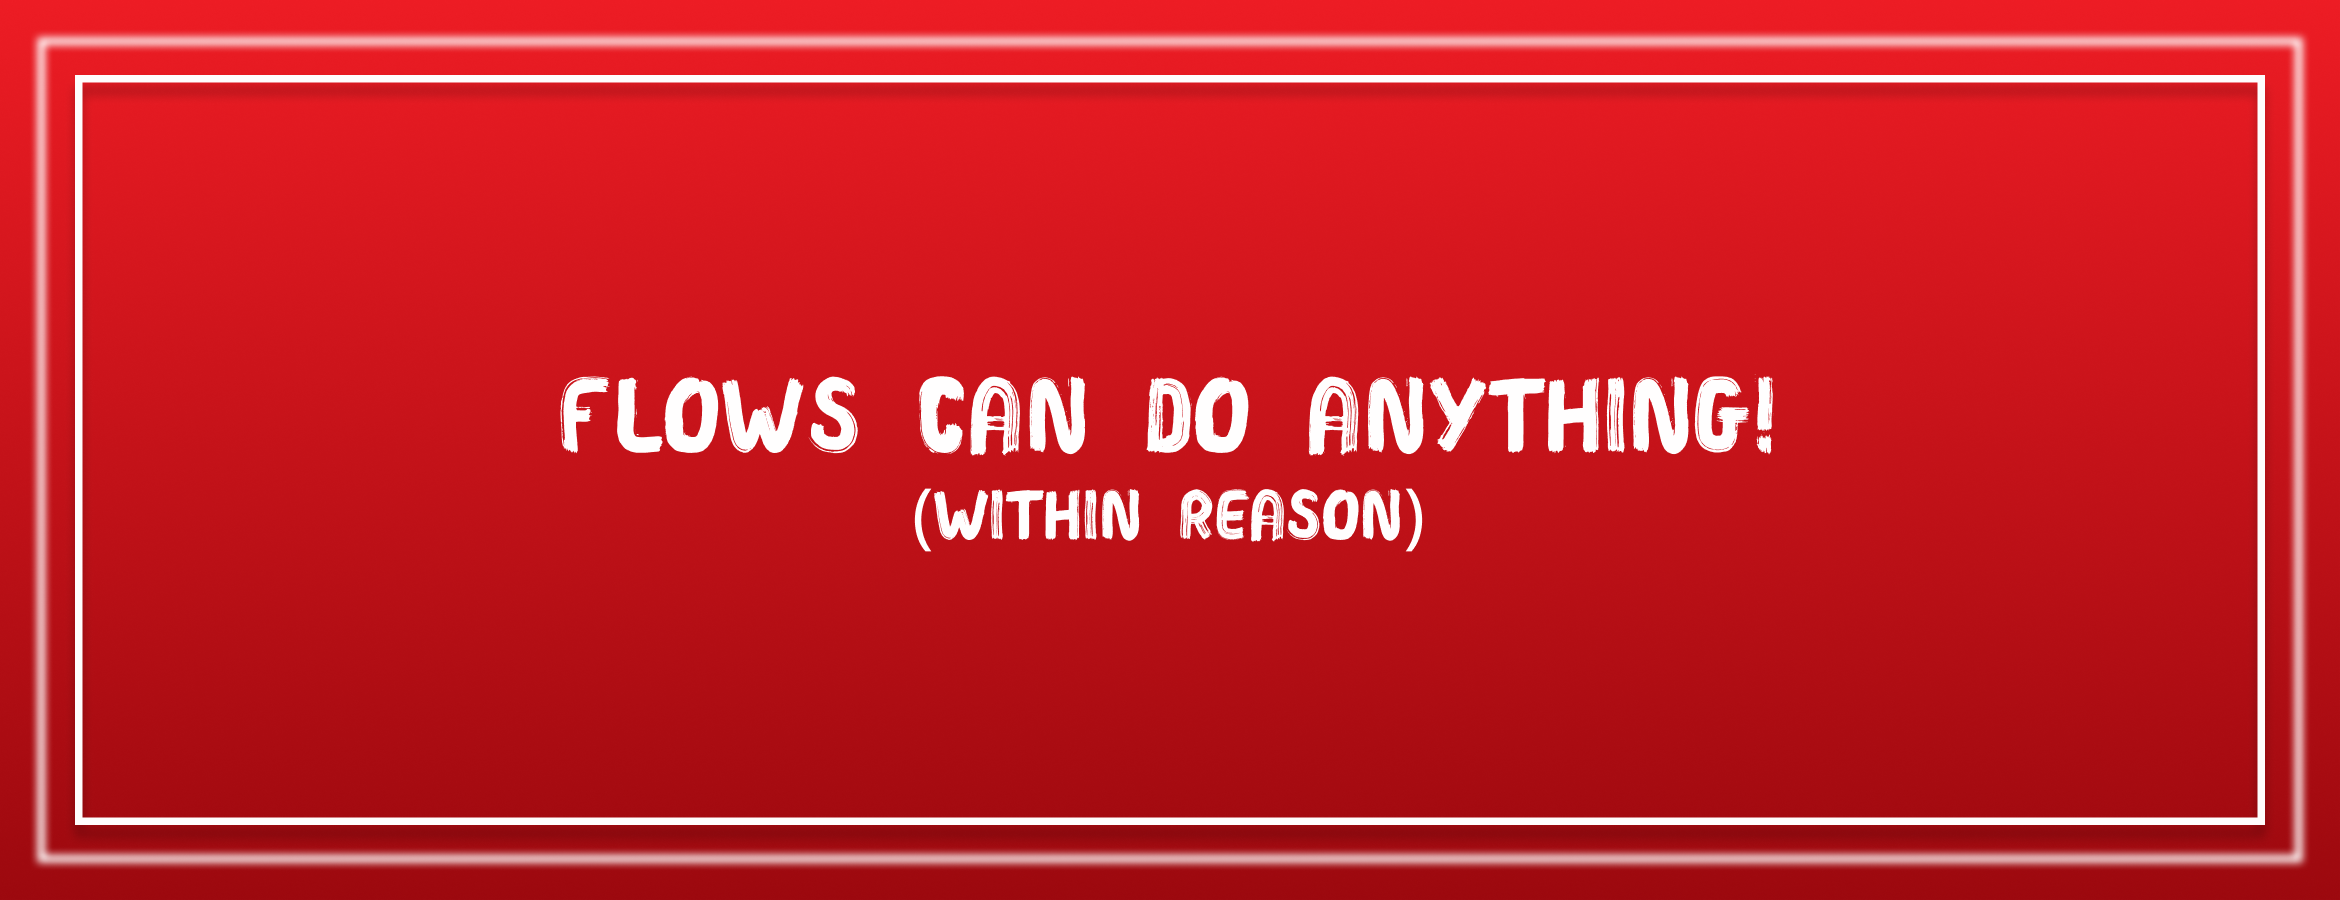
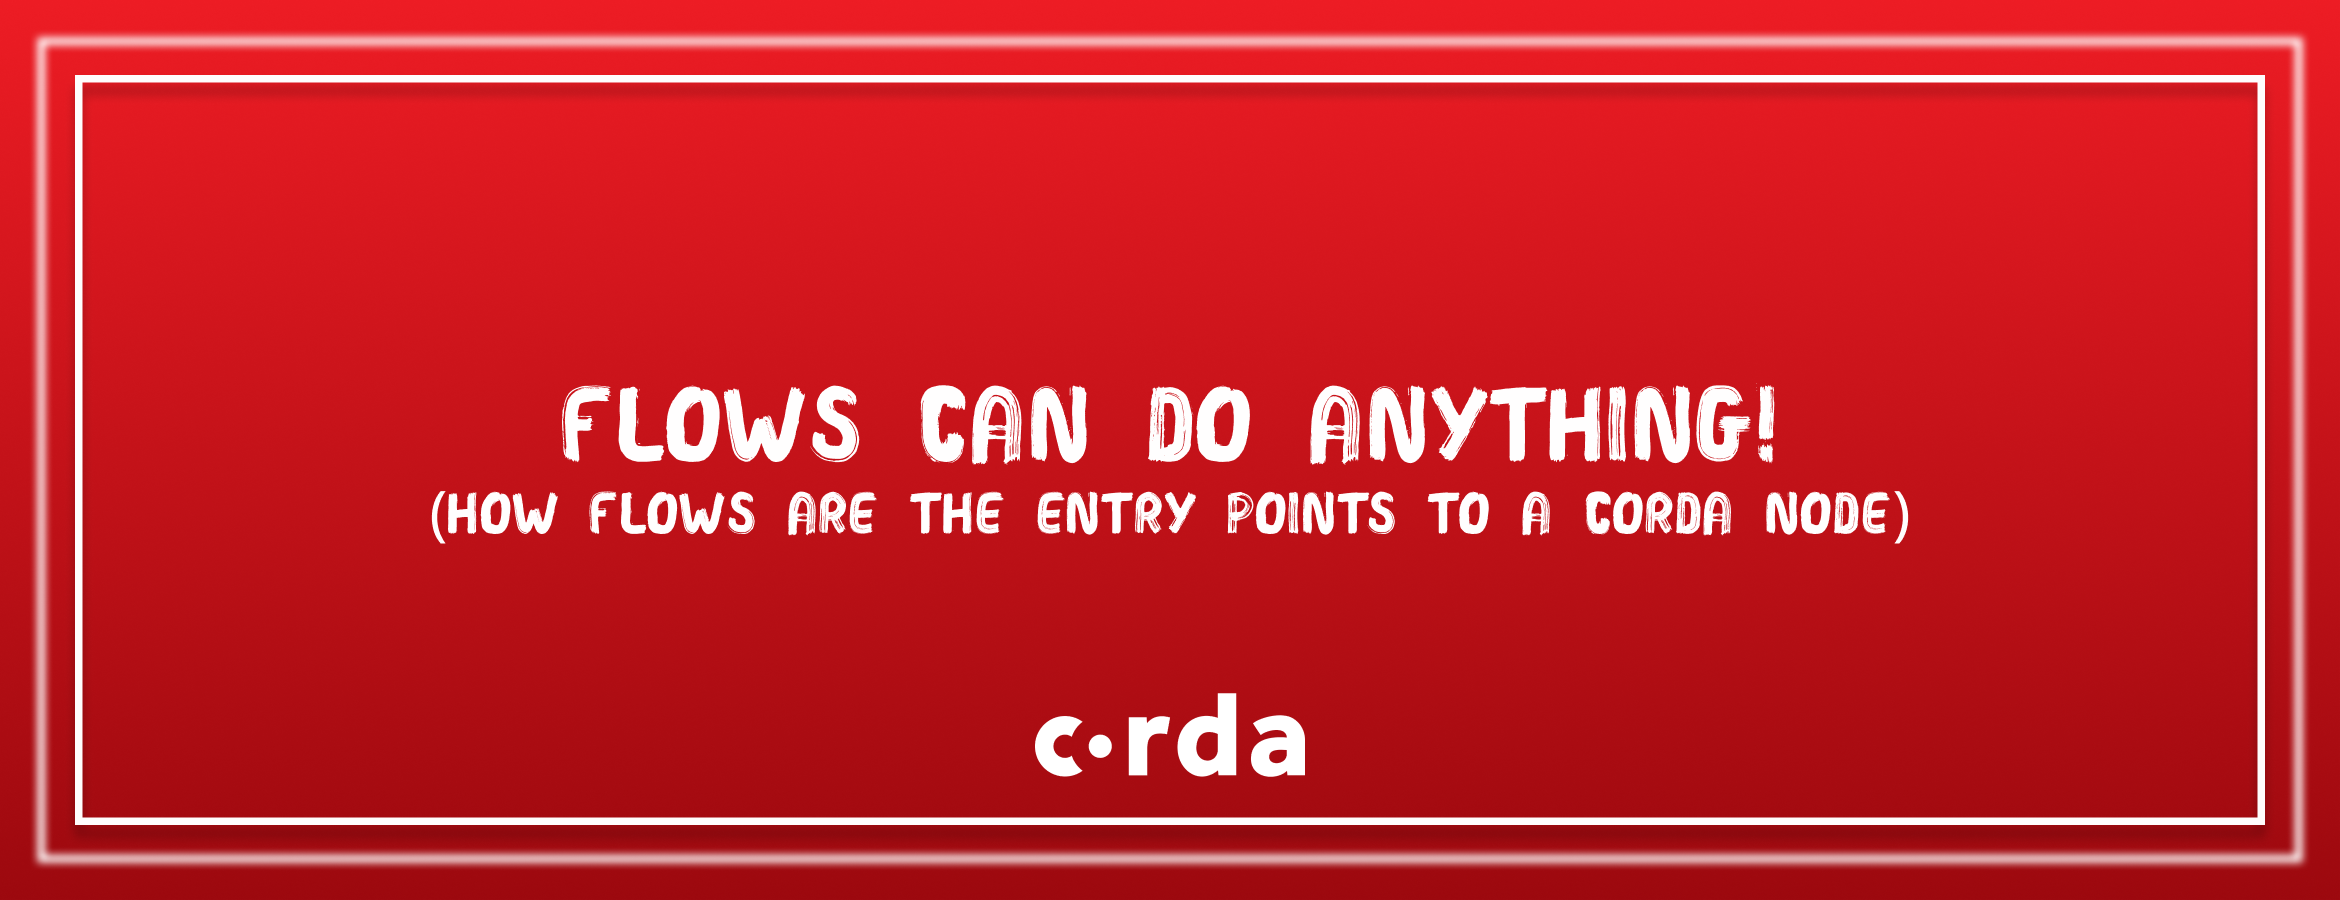
Make edits after richards comments + change header image

Changed region(s): [[0.1872, 0.4044, 0.8111, 0.6222], [0.4368, 0.7778, 0.5615, 0.8711]]

diff --git a/content/blog/2019/corda-flows-can-do-anything/index.md b/content/blog/2019/corda-flows-can-do-anything/index.md
@@ -6,11 +6,17 @@ tags: [corda, kotlin, dlt, distributed ledger technology, blockchain]
 cover_image: ./title-card.png
 ---
 
-Flows can do a lot more than proposing new transactions to record between organisations. Although, saying they can do _anything_ is probably a bit far-reaching (it's catchy though). What I really want to say, is that flows are the entry points into a node. Corda provides a series of functions to interact with a node via RPC. These cover the more straightforward use cases, such as querying the vault, but there is a limitation to what is provided. Flows cover any of the _non standard_ logic that needs to be triggered.
+In Corda, Flows can do a lot more than proposing new transactions to record between organisations. Although, saying they can do _anything_ is probably a bit far-reaching (it's catchy though). What I really want to say, is that flows are the entry points into a node. Corda provides a series of functions to interact with a node via RPC. These cover the more straightforward use cases, such as querying the vault, but there is a limitation to what is provided. Flows cover any of the _non standard_ logic that needs to be triggered. So, if you want to expose an API from a Corda node that a client can trigger or consume, then this post is for you.
+
+I will be exploring the use of flows as entry points to a node throughout this post. Flows that propose new transactions are shown in many other tutorials and have been excluded from this post. The limelight will be solely shone onto flows that can be leveraged to provide different functionality.
 
 ## The theory
 
-The easiest way to get this started is by showing you an example:
+As mentioned in the introduction, and I want to reiterate it, the only way to expose an endpoint or API from a Corda node is through a flow. The existing RPC endpoints will handle the _standard_ functionality.
+
+In my opinion, exposing the functionality of a node through flows is very similar to writing HTTP endpoints for a web server. You must define what is accessible. Clients cannot request access to any internal code inside the web server. If there is not an endpoint, an error is sent back. The same concept is true for Corda. It is then more straightforward to reason about what a client can or cannot do when interacting with a node.
+
+In regards to the implementation, the easiest way to get started is by showing you an example:
 
 ```kotlin
 @StartableByRPC
@@ -41,6 +47,12 @@ Why are they missing? Well, they are not needed. Think about it. Each point is r
 - __Responder flows__ run on counterparty nodes and interact with your flows when you `send` data to them. Again, there is no communication, so there is no need for other nodes to have a flow installed that pairs with the flow above.
 
 Most flows that do not interact with other nodes will follow this sort of structure (some flows can still suspend depending on what you are doing).
+
+The flow defined above can then be accessed from an external client:
+
+```kotlin
+proxy.startFlow(::StupidSimpleQueryFlow, "asdas").returnValue.get()
+```
 
 ## Examples
 
